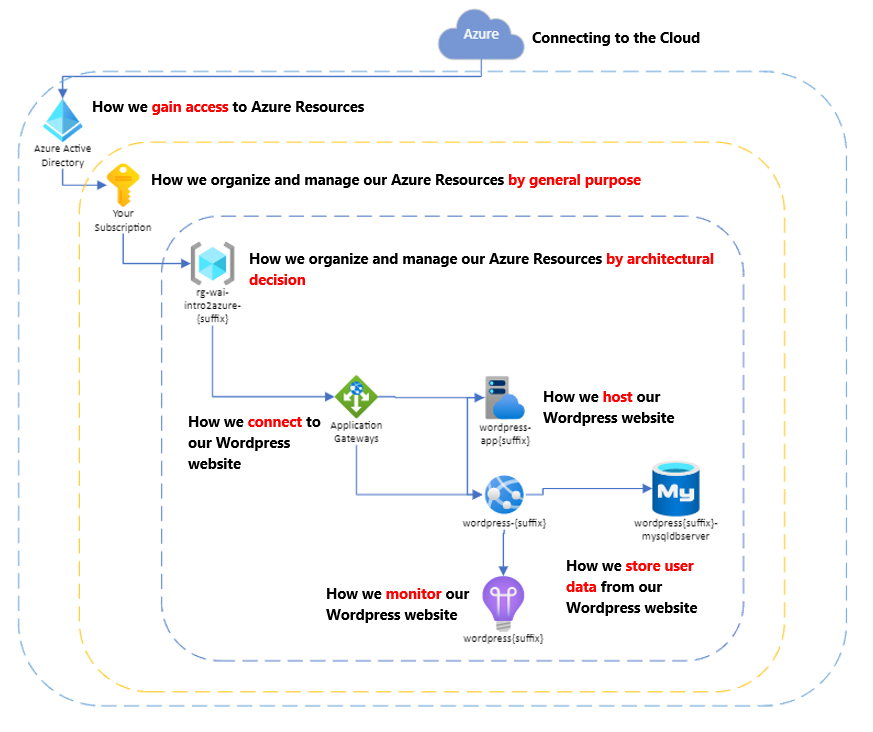
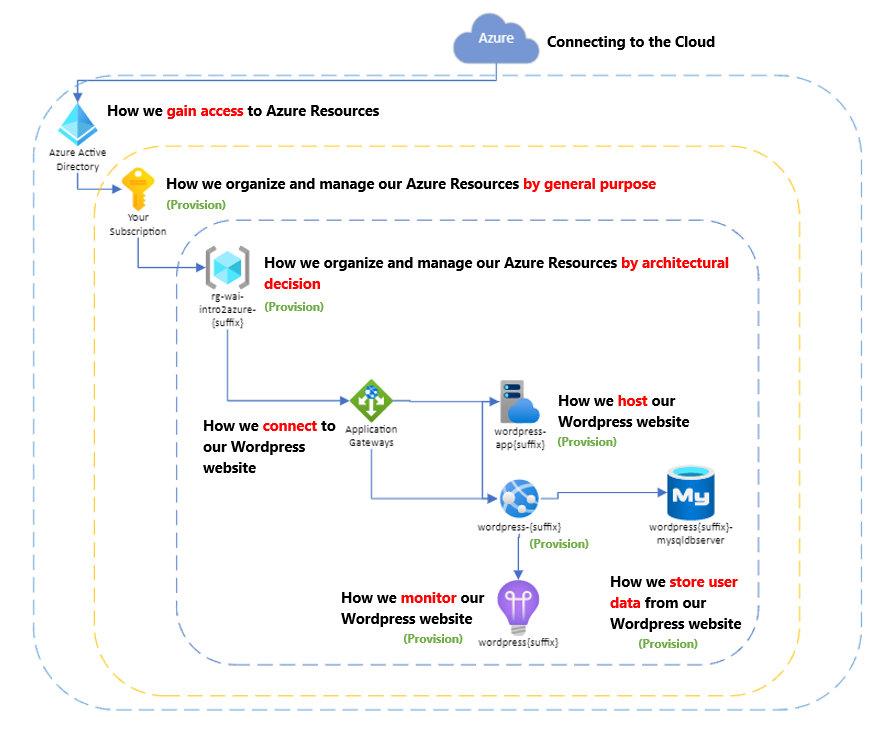
update HOL 1 and add images

diff --git a/HOL/labs/HOL 1 Create a Wordpress website hosted in Azure.md b/HOL/labs/HOL 1 Create a Wordpress website hosted in Azure.md
@@ -8,7 +8,8 @@ Let's start off with the basics and a complete a familiar exercise - provisionin
 
 Our goal is to provision a Wordpress Installation Azure Website that our users can use to install WordPress on their local device. We're going to achieve this by:
 
-- Creating an Azure Resource Group
+- Creating an Azure Subscription
+- Provisioning an Azure Resource Group
 - Provisioning a Wordpress website through an Azure Web App
     - Provision an Azure Web App Service plan
     - Provision a Azure SQL Database
